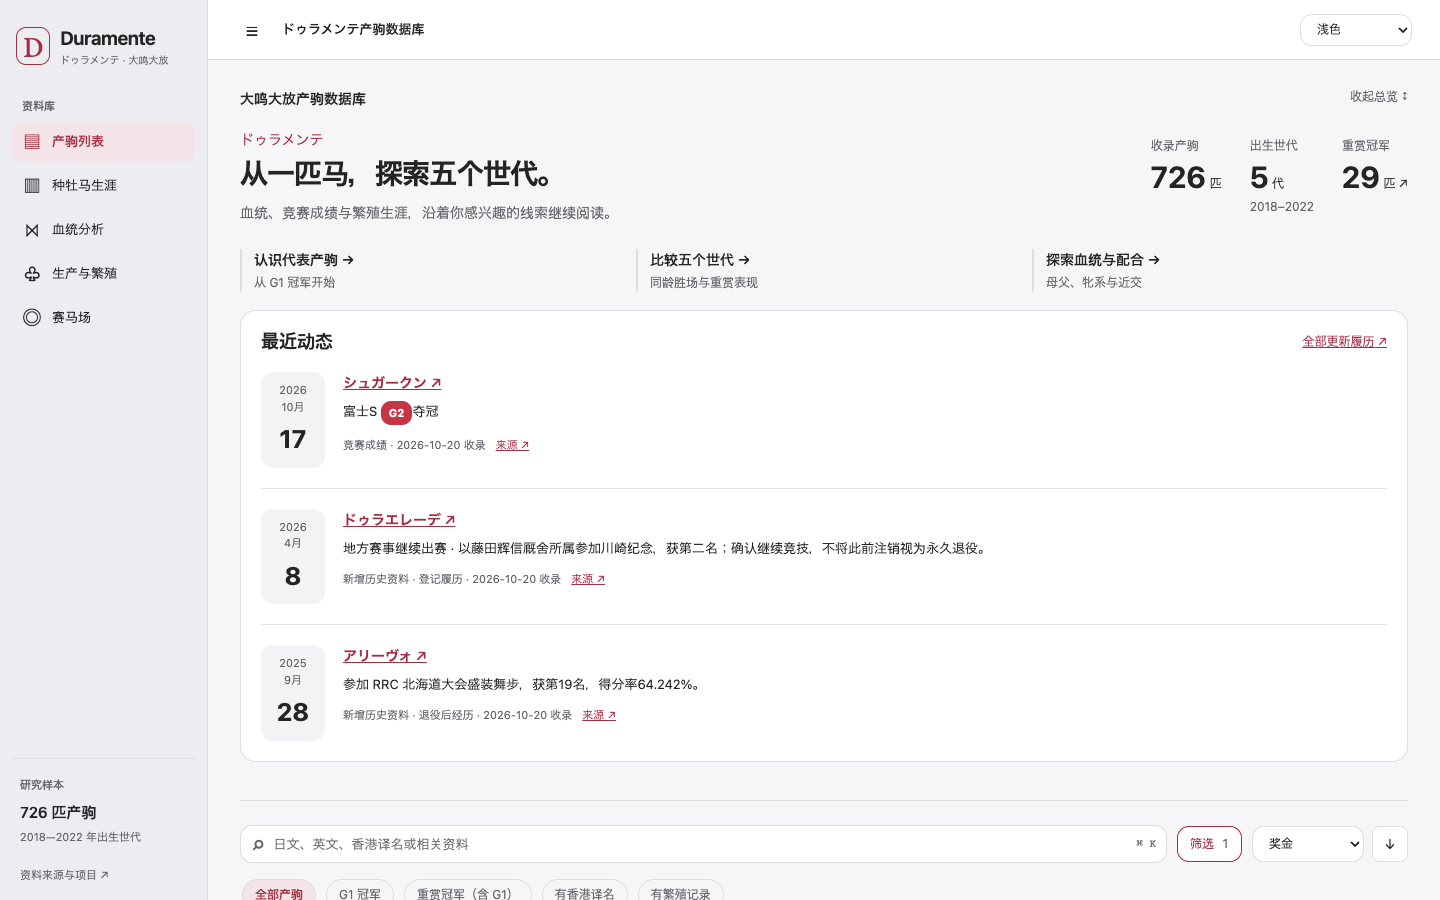
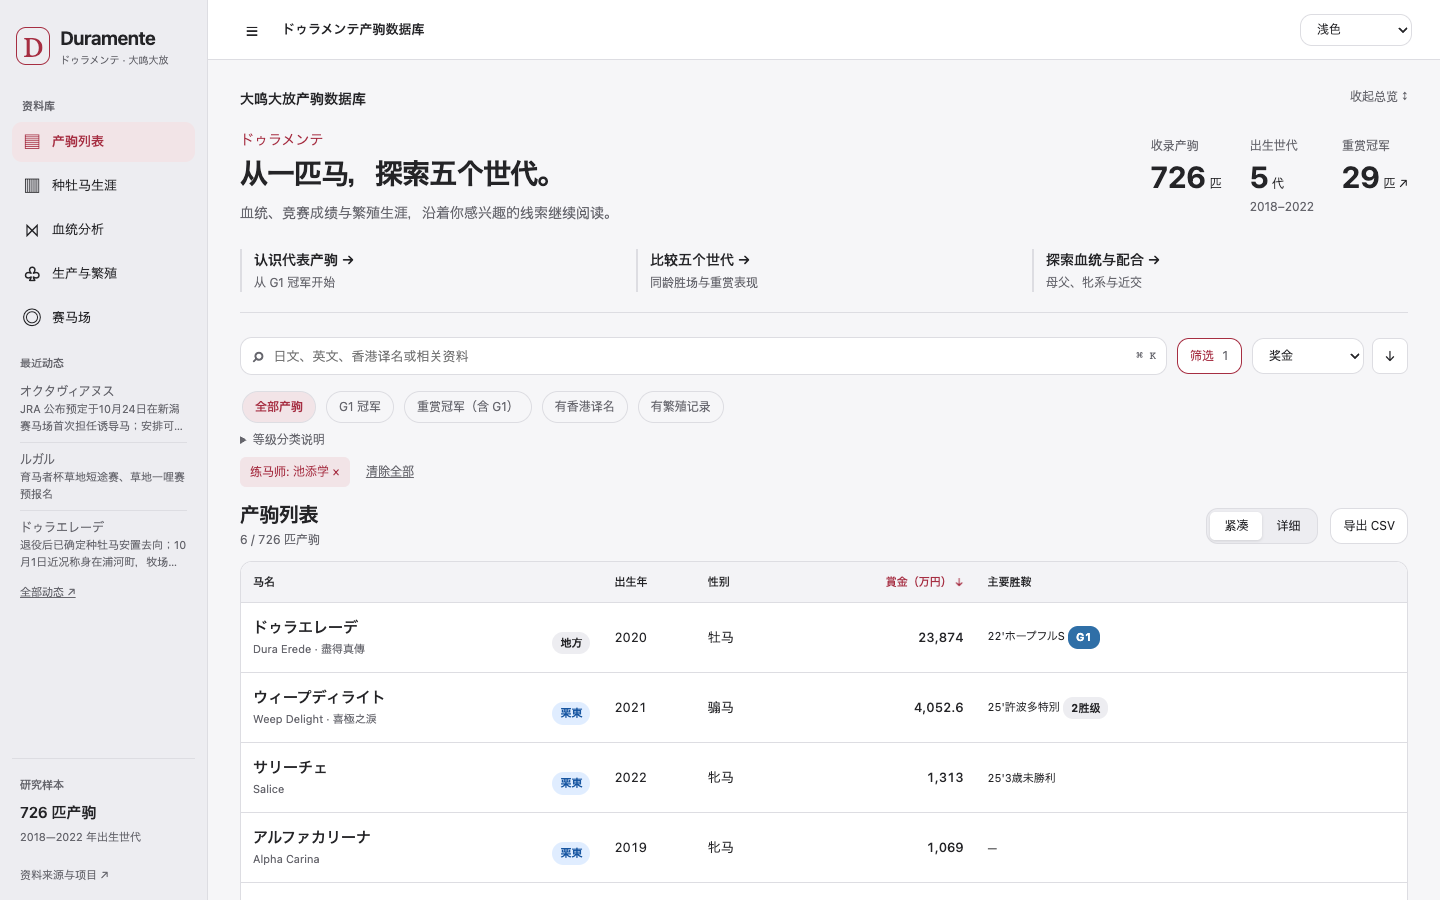
Move recent news to sidebar and verify October horse updates

diff --git a/index.html b/index.html
@@ -36,6 +36,7 @@
       <button type="button" data-view="production" title="生产与繁殖"><span class="nav-symbol" aria-hidden="true">♧</span><span class="nav-label">生产与繁殖</span></button>
       <button type="button" data-view="racecourse" title="赛马场"><span class="nav-symbol" aria-hidden="true">◎</span><span class="nav-label">赛马场</span></button>
     </nav>
+    <section id="sidebarUpdates" class="sidebar-updates" aria-label="最近动态"></section>
     <div class="sidebar-footer">
       <div class="collection-note"><span class="sidebar-label">研究样本</span><strong id="collectionCount">产驹资料</strong><small>2018—2022 年出生世代</small></div>
       <a class="source-link" href="https://github.com/Dacron92mr/duramente-progeny-database" target="_blank" rel="noreferrer">资料来源与项目 ↗</a>
@@ -270,7 +271,7 @@
   </div>
 
   <script src="chart-animation.js?v=20260907b"></script>
-  <script>window.STATIC_DATA_BASE = "data"; window.STATIC_DATA_VERSION = "20261020-careers";</script>
+  <script>window.STATIC_DATA_BASE = "data"; window.STATIC_DATA_VERSION = "20261023-sidebar-news";</script>
   <script src="chart-colors.js?v=20261007-semantic"></script>
   <script src="chart-analysis.js?v=20261016-analysis"></script>
   <script src="chart-design.js?v=20261016-analysis"></script>

diff --git a/styles/shell.css b/styles/shell.css
@@ -80,3 +80,16 @@ main.view { margin-left: var(--sidebar-width); min-width: 0; }
 @media(prefers-reduced-motion: reduce) {
   *, *::before, *::after { scroll-behavior: auto !important; animation-duration: .01ms !important; transition-duration: .01ms !important; }
 }
+
+/* Quiet news below the library navigation, outside the research canvas. */
+.app-sidebar { overflow-y: auto; }
+.sidebar-updates { margin: 18px 8px; color: var(--muted); font-size: 12px; }
+.sidebar-updates h2 { margin: 0 0 6px; font-size: 11px; font-weight: 500; color: inherit; }
+.sidebar-updates ul { list-style: none; margin: 0; padding: 0; }
+.sidebar-updates li + li { border-top: 1px solid var(--line); }
+.sidebar-updates li a { display: block; padding: 8px 0; color: inherit; text-decoration: none; }
+.sidebar-updates li span { display: block; font-size: 12px; }
+.sidebar-updates small { display: -webkit-box; -webkit-line-clamp: 2; -webkit-box-orient: vertical; overflow: hidden; font-size: 11px; line-height: 1.5; }
+.sidebar-updates a:hover { color: var(--ink); }
+.sidebar-updates .updates-all { display: inline-block; color: inherit; padding: 6px 0; font-size: 11px; }
+@media (min-width: 1001px) { .sidebar-collapsed .sidebar-updates { display: none; } }

diff --git a/app.js b/app.js
@@ -1,3 +1,4 @@
+import {mountRecentUpdates} from './src/updates.mjs';
 import {historyNames} from './src/life-records.mjs';
 import { mountDiscovery, organizeAnalysis } from './src/discovery.mjs';
 import {mountCourseAnalysis} from './src/racecourse-analysis.mjs';
@@ -435,6 +436,7 @@ function updateDirectionButton() {
 }
 
 async function loadSummary() {
+  mountRecentUpdates(document.querySelector('#sidebarUpdates'), fetchStaticData);
   const summary = await getJson("/api/summary");
   state.allTotal = Number(summary.horses || 0);
   document.querySelector("#collectionCount").textContent = `${state.allTotal.toLocaleString("zh-CN")} 匹产驹`;

diff --git a/scripts/build_updates.py b/scripts/build_updates.py
@@ -10,13 +10,16 @@ def build(root,today=None):
  state_path=data/'updates_state.json';old=read(state_path,{})
  feed=read(data/'updates.json',{'events':[]});known={e['id'] for e in feed['events']};new={}
  careers=read(data/'post_racing_careers.json',{'horses':{}})['horses'];history=read(data/'career_history_verified.json',{'horses':{}})['horses'];affiliations=read(data/'career_history.json',{'horses':{}})['horses']
- def add(h,kind,key,date,title,source,featured=False):
+ def add(h,kind,key,date,title,source,featured=False,status=None):
   eid=f"{h['id']}:{kind}:{key}"
   if eid in known or not source or not source.startswith('https://'):return
   date=(date or '').replace('/','-')
   historical=not date or date[:4]!=today[:4] or (len(date)==10 and (datetime.fromisoformat(today)-datetime.fromisoformat(date)).days>30)
-  feed['events'].append(dict(id=eid,horse_id=h['id'],horse_name=h['name'],type=kind,event_date=date or None,recorded_at=today,title=title,source_url=source,historical=historical,featured=featured));known.add(eid)
+  feed['events'].append(dict(id=eid,horse_id=h['id'],horse_name=h['name'],type=kind,event_date=date or None,recorded_at=today,title=title,source_url=source,historical=historical,featured=featured,status=status));known.add(eid)
+ news=read(data/'horse_news.json',{'events':[]})['events']
  for h in read(data/'horses.json',[]):
+  for e in news:
+   if e['horse_id']==h['id'] and e['netkeiba_id']==h['netkeiba_id']:add(h,'news',e['id'],e['date'],e['title'],e['source_url'],True)
   hid=str(h['id']);detail=read(data/'horses'/f'{hid}.json',{});before=old.get(hid,{})
   races={str(r.get('race_id') or digest([r.get('race_date'),r.get('race_name')])):digest(r) for r in detail.get('races',[])}
   for r in detail.get('races',[]):
@@ -27,8 +30,8 @@ def build(root,today=None):
   stud=detail.get('stud',[]);stud_hash=digest(stud)
   if before and before.get('stud')!=stud_hash and stud:
    add(h,'breeding',stud_hash,None,'繁殖资料补充',next((p.get('studbook_url') for p in stud if p.get('studbook_url')),None),True)
-  for e in careers.get(hid,{}).get('events',[]):add(h,'career',digest(e)[:12],e.get('date'),e['summary'],e['source_url'],True)
-  for e in history.get(hid,{}).get('registration',[]):add(h,'registration',digest(e)[:12],e.get('date'),e['title']+' · '+e['summary'],e['source_url'],True)
+  for e in careers.get(hid,{}).get('events',[]):add(h,'career',digest(e)[:12],e.get('date'),e['summary'],e['source_url'],True,e.get('status'))
+  for e in history.get(hid,{}).get('registration',[]):add(h,'registration',digest(e)[:12],e.get('date'),e['title']+' · '+e['summary'],e['source_url'],True,e.get('status'))
   # A single explicitly verified recent result seeds the initial editorial feed.
   if not old and hid=='40':
    for r in detail.get('races',[]):

diff --git a/scripts/tests/test_career_records.py b/scripts/tests/test_career_records.py
@@ -20,3 +20,15 @@ class CareerTests(unittest.TestCase):
    first=updates(root,'2026-10-20');second=updates(root,'2026-10-21');self.assertEqual(first['events'],second['events']);self.assertTrue(first['events'][0]['historical']);self.assertEqual(first['events'][0]['recorded_at'],'2026-10-20')
    build(root);self.assertEqual(json.loads((data/'career_history.json').read_text())['horses']['1']['affiliations'],[])
 if __name__=='__main__':unittest.main()
+
+class NewsTests(unittest.TestCase):
+ def test_announced_events_and_identity_checked_news_survive_rebuild(self):
+  with tempfile.TemporaryDirectory() as tmp:
+   root=Path(tmp);data=root/'data';(data/'horses').mkdir(parents=True)
+   def write(name,value):(data/name).write_text(json.dumps(value))
+   write('horses.json',[{'id':1,'name':'A','netkeiba_id':'123'}])
+   write('post_racing_careers.json',{'horses':{'1':{'events':[{'date':'2026-10-24','status':'announced','summary':'预定诱导马出道','source_url':'https://example.org/plan'}]}}})
+   write('horse_news.json',{'events':[{'id':'verified','horse_id':1,'netkeiba_id':'123','date':'2026-10-22','title':'预报名','source_url':'https://example.org/news'},{'id':'wrong-horse','horse_id':1,'netkeiba_id':'999','date':'2026-10-22','title':'不应收录','source_url':'https://example.org/wrong'}]})
+   first=updates(root,'2026-10-23');second=updates(root,'2026-10-25')
+   self.assertEqual(first['events'],second['events']);self.assertEqual(len(second['events']),2)
+   self.assertEqual(next(e for e in second['events'] if e['type']=='career')['status'],'announced')
